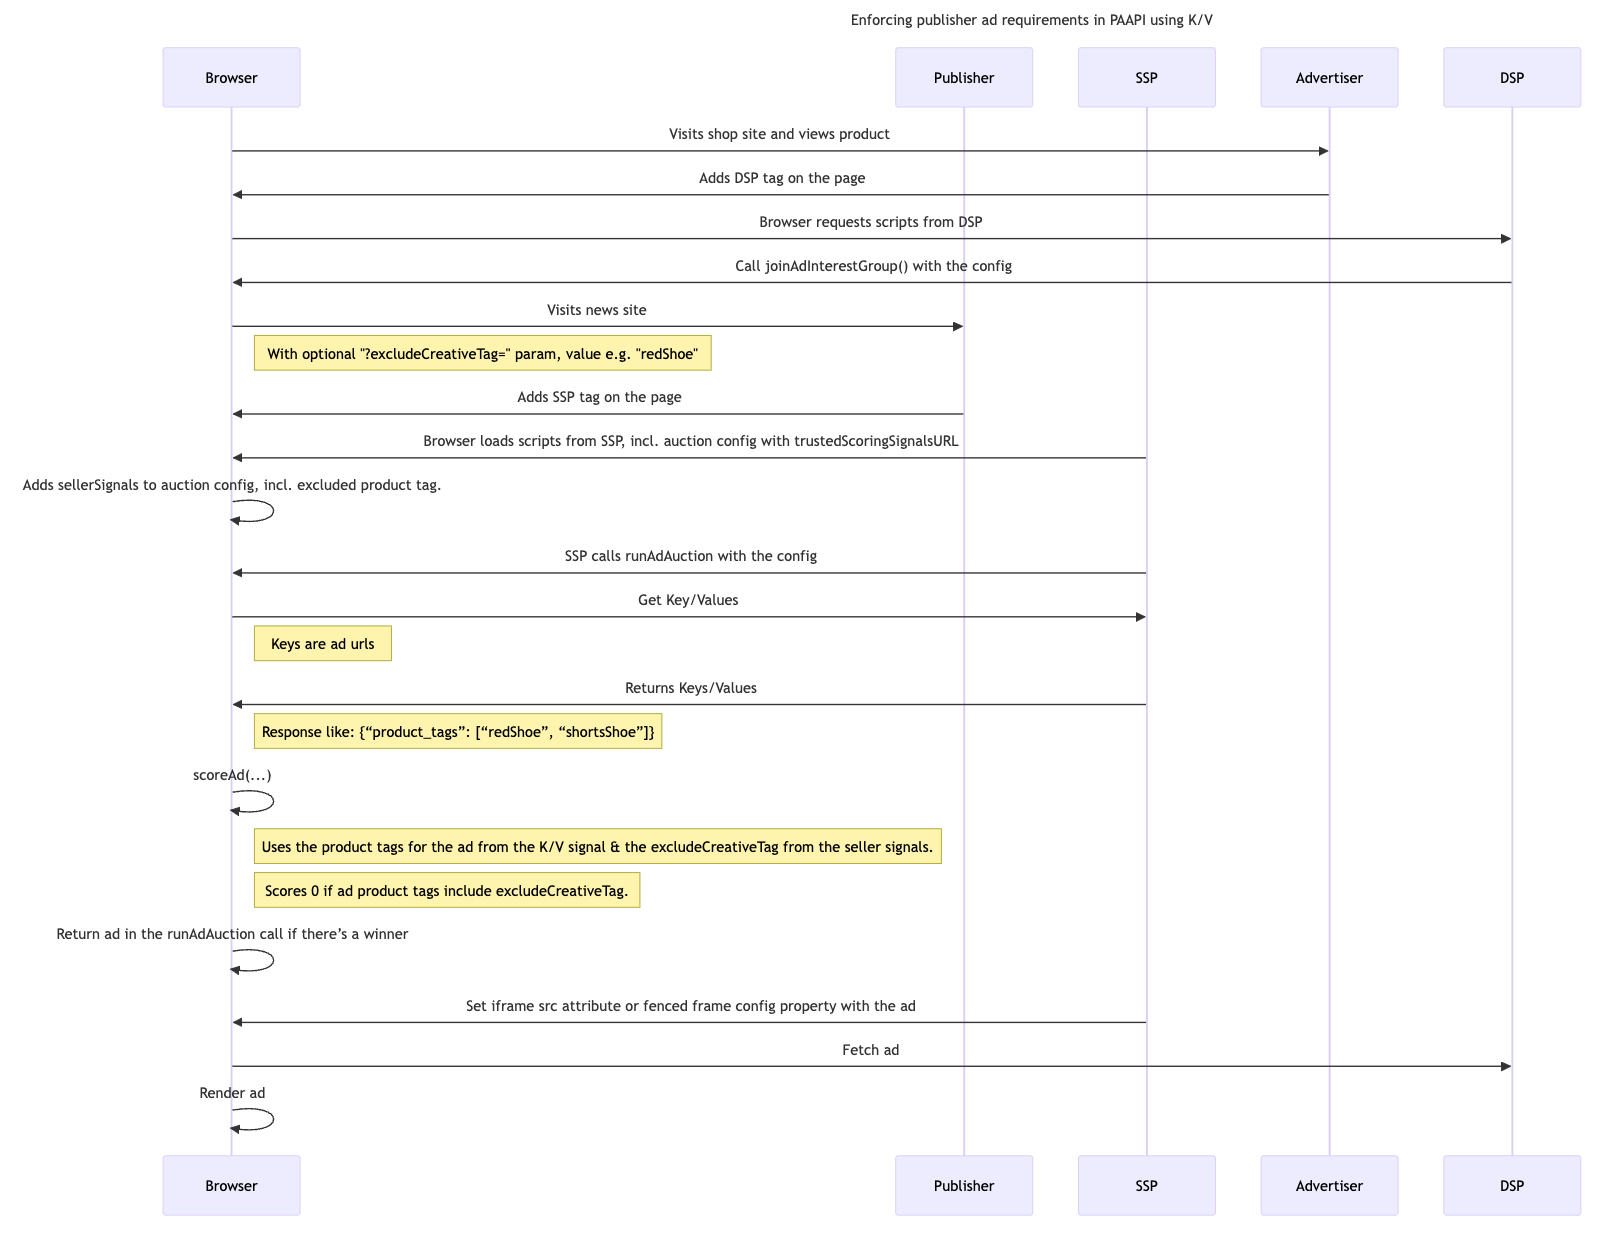
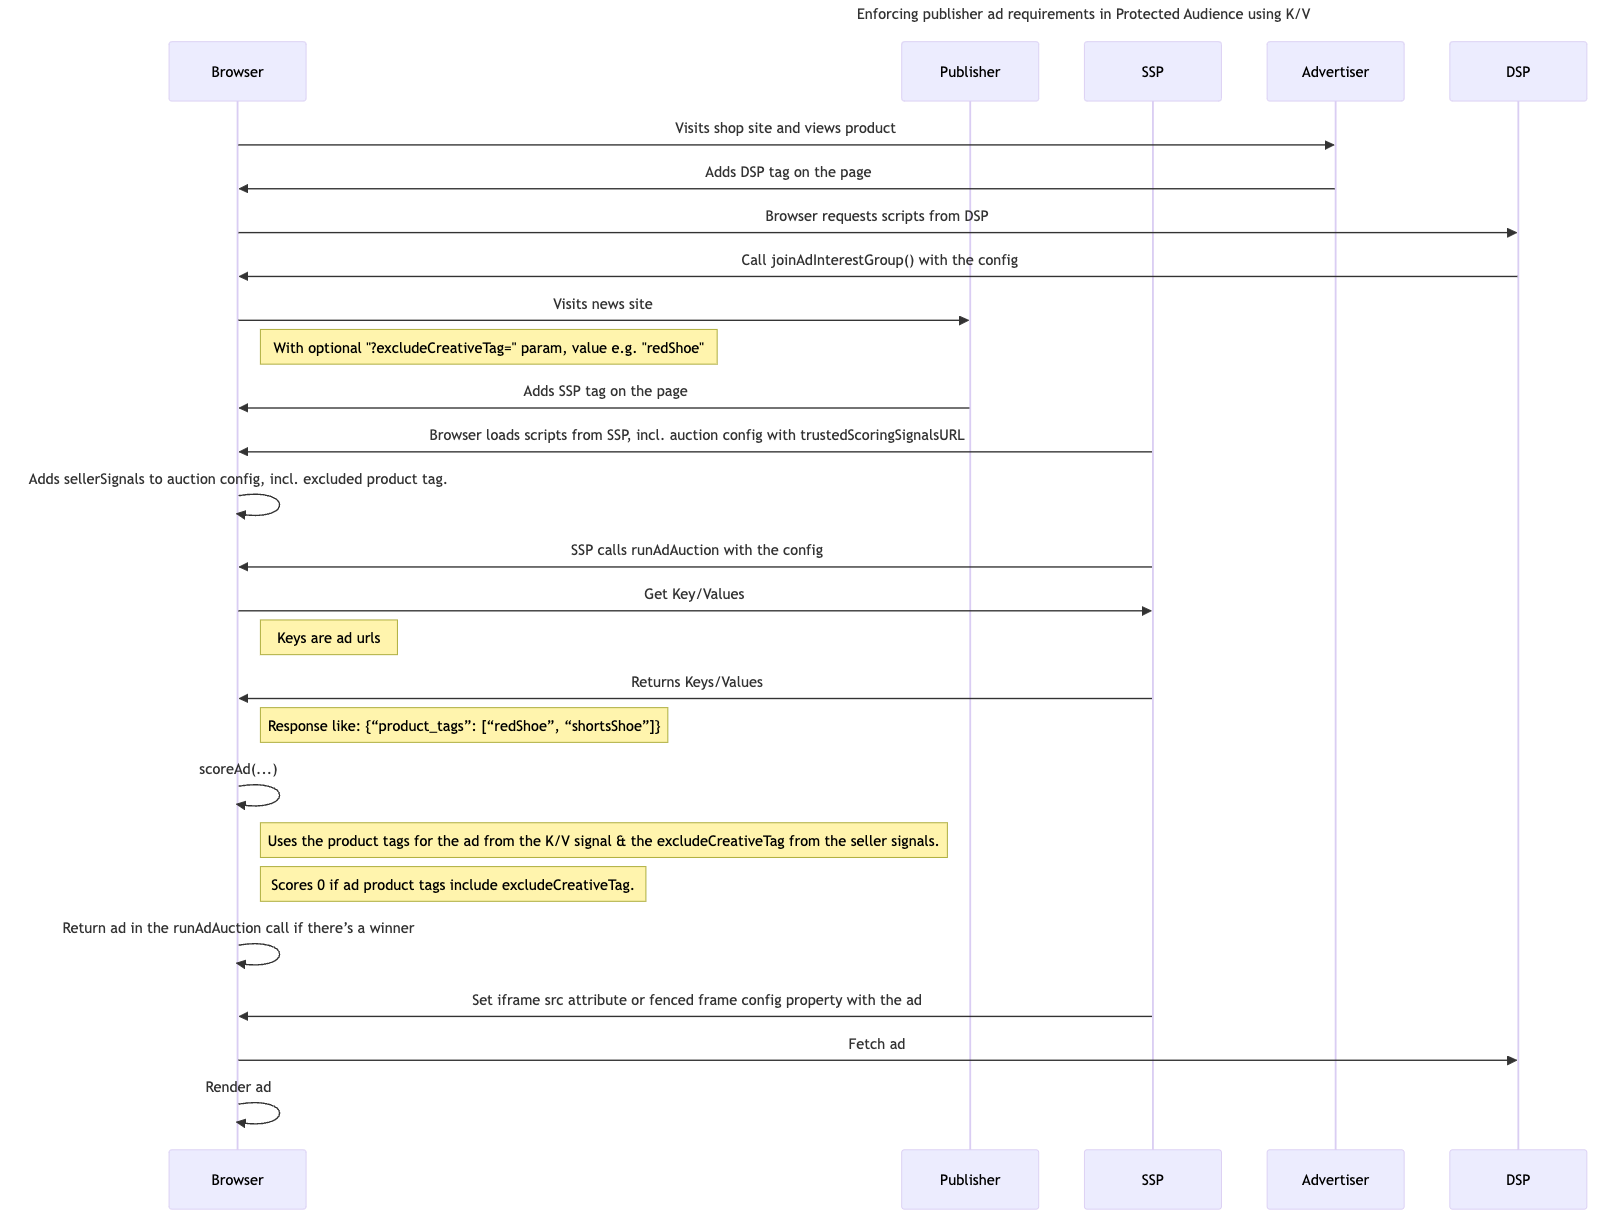
UC-6 Doc change requests from Sid:
- Change "PAAPI" to "Protected Audience" everywhere.
- Change design description to note both the real world usage (set exclusion tags in SSP admin UI) & how we're demoing (exclude buttons / url change).

diff --git a/services/home/docs/demos/publisher-ad-quality-req.md b/services/home/docs/demos/publisher-ad-quality-req.md
@@ -1,5 +1,5 @@
 ---
-title: Enforcing publisher ad requirements in PAAPI using K/V
+title: Enforcing publisher ad requirements in Protected Audience using K/V
 sidebar_position: 7
 more_data:
   - apis:
@@ -13,7 +13,7 @@ more_data:
 
 import Tabs from '@theme/Tabs'; import TabItem from '@theme/TabItem';
 
-# Enforcing publisher ad requirements in PAAPI using K/V
+# Enforcing publisher ad requirements in Protected Audience using K/V
 
 <Tabs>
 <TabItem value="overview" label="Overview" default>
@@ -49,9 +49,9 @@ Often publishers have requirements on the types of ads they’re willing to disp
 ### Goals
 
 In this demo, we assume a publisher would like to exclude ads with certain product types. We’ll demonstrate a publisher page calling an SSP to perform
-a PAAPI auction, supplying product tags to exclude which have been selected by the user (e.g. “redShoe”). The SSP will exclude ads by calling their
-backend K/V server with the ad urls, and receiving ad metadata as JSON (e.g. `{“product_tags”: [“redShoe”, “shortsShoe”]}`) which will be matched to
-the product tag to exclude.
+a Protected Audience auction, supplying product tags to exclude (e.g. “redShoe”). The SSP will exclude ads by calling their backend K/V server with
+the ad urls, and receiving ad metadata as JSON (e.g. `{“product_tags”: [“redShoe”, “shortsShoe”]}`) which will be matched to the product tag to
+exclude.
 
 ### Assumptions
 
@@ -65,17 +65,20 @@ the product tag to exclude.
 
 ### System Design
 
-Using Protected Audience API, the user visits a shopping site, and gets added to an interest group. Later the same user visits a news site. Their
-browser runs an on-device auction & bidding logic will select the winning ad which will be shown to the user. The user now presses one of several
-buttons designed to exclude ads with certain product tags. The news page is refreshed, adding a url parameter for the excluded product tags. The new
-ad auction will receive key / value meta-data from the SSP, indicating the product tags of the ad. If it matches the excluded product tag set by the
-user, the ad will be excluded from the auction, and the user will see no ad.
+Using Protected Audience API, the user visits a shopping site, and gets added to an interest group. Later the same user visits a news site. Before the
+auction, we establish tags used to exclude certain ads;
+
+- In a real world use case, the publisher would set ad exclusion tags in an SSPs admin UI.
+- In our demo, the user presses one of several buttons to set an exclusion tag through a url parameter.
+
+The ad auction will receive key / value meta-data from the SSP, indicating the product tags of each ad. If they match the excluded product tag, the ad
+will be excluded from the auction, and the user will see no ad.
 
 #### User Journey
 
 ```mermaid
 sequenceDiagram
-Title: Enforcing publisher ad requirements in PAAPI using K/V
+Title: Enforcing publisher ad requirements in Protected Audience using K/V
 
 
 participant Browser

diff --git a/services/home/docs/demos/index.md b/services/home/docs/demos/index.md
@@ -14,7 +14,7 @@ sidebar_position: 1
 |         Show Relevant Video Ads          |   [Instream VAST video ad in a Protected Audience single-seller auction](demos/vast-video-protected-audience.md)   |             Protected Audience API             |      Publisher, SSP, Advertiser, DSP       |
 |      Show Relevant Content and Ads       |                           [Retargeting / Remarketing](demos/retargeting-remarketing.md)                            |             Protected Audience API             |      Publisher, SSP, Advertiser, DSP       |
 |           Measure Digital Ads            |                [Single-touch conversion Attribution](demos/single-touch-conversion-attribution.md)                 | Attribution Reporting API, Aggregation Service |      Publisher, SSP, Advertiser, DSP       |
-| Use SSP Key/Value service to exclude ads |            [Enforcing publisher ad requirements in PAAPI using K/V](demos/publisher-ad-quality-req.md)             |             Protected Audience API             |               Publisher, SSP               |
+| Use SSP Key/Value service to exclude ads |      [Enforcing publisher ad requirements in Protected Audience using K/V](demos/publisher-ad-quality-req.md)      |             Protected Audience API             |               Publisher, SSP               |
 
 :::info Looking for a use case not listed here ? Help us growing this repository by
 [contributing](https://github.com/privacysandbox/privacy-sandbox-demos/blob/main/CONTRIBUTING.md) or

diff --git a/services/home/docs/intro.md b/services/home/docs/intro.md
@@ -13,7 +13,7 @@ sidebar_position: 1
 |         Show Relevant Video Ads          |   [Instream VAST video ad in a Protected Audience single-seller auction](demos/vast-video-protected-audience.md)   |             Protected Audience API             |      Publisher, SSP, Advertiser, DSP       |
 |      Show Relevant Content and Ads       |                           [Retargeting / Remarketing](demos/retargeting-remarketing.md)                            |             Protected Audience API             |      Publisher, SSP, Advertiser, DSP       |
 |           Measure Digital Ads            |                [Single-touch conversion Attribution](demos/single-touch-conversion-attribution.md)                 | Attribution Reporting API, Aggregation Service |      Publisher, SSP, Advertiser, DSP       |
-| Use SSP Key/Value service to exclude ads |            [Enforcing publisher ad requirements in PAAPI using K/V](demos/publisher-ad-quality-req.md)             |             Protected Audience API             |               Publisher, SSP               |
+| Use SSP Key/Value service to exclude ads |      [Enforcing publisher ad requirements in Protected Audience using K/V](demos/publisher-ad-quality-req.md)      |             Protected Audience API             |               Publisher, SSP               |
 
 :::info Looking for a use case not listed here ? Help us growing this repository by
 [contributing](https://github.com/privacysandbox/privacy-sandbox-demos/blob/main/CONTRIBUTING.md) or
